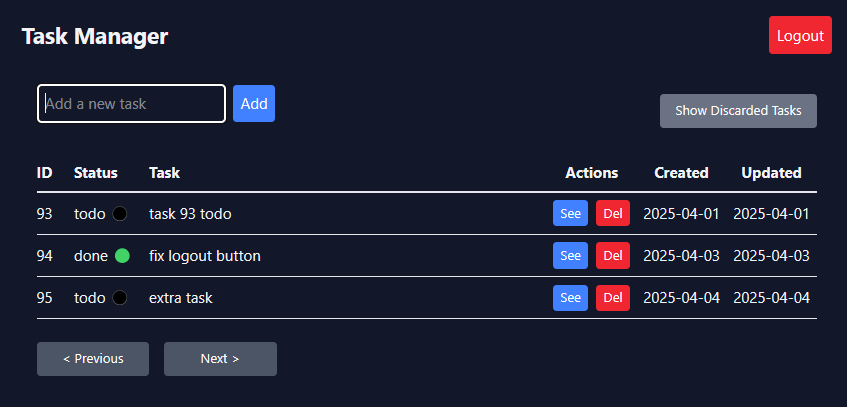
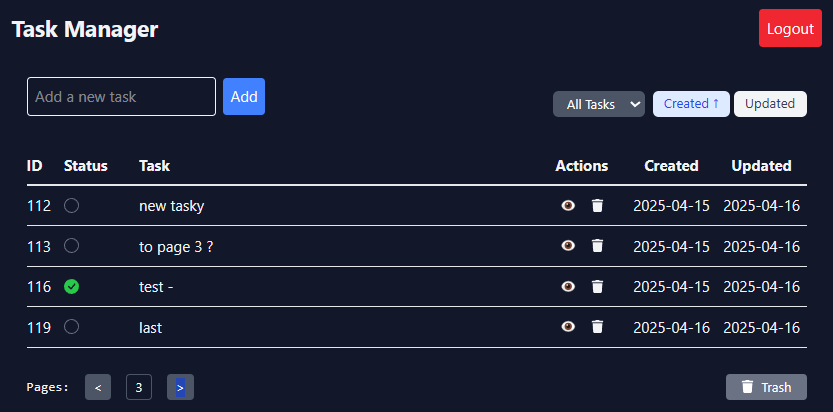
docs: update README

diff --git a/README.md b/README.md
@@ -14,8 +14,11 @@ Users will be able to:
 - [x] Delete tasks.
 - [x] Edit Existing tasks.
 - [x] Add and edit a task description field
-- [x] Soft delete tasks (Recycle bin)
-- [ ] Add user specific tasks
+- [x] Soft delete tasks (Trash bin)
+- [x] Recover tasks from trash bin
+- [x] Fake hard delete (erasing from Trash bin)
+- [x] Add user specific tasks
+- [x] Filter task by status, creation and/or update dates.
 
 ## **Features**
 - [x] Authentication login/logout (JWT).
@@ -24,9 +27,8 @@ Users will be able to:
 - [x] Uses ORM to manage database queries (Prisma).
 - [x] Error Handling.
 - [x] Input validations (Joi).
-- [x] minimize rendrings (hooks)
-- [x] modular code
-- [/] Optimize re-renderings
+- [x] Optimize re-renderings (useCallback & react.memo)
+- [x] unit test coverage near 80%
 
 # **Setup & Launch**
 
@@ -71,67 +73,6 @@ The frontend tipically runs at `http://localhost:5173`
 
 
 # **Miscellaneous (for development)**
-
-### **API url in deployment**
-Ensure the frontend points to the correct backend URL (e.g., `http://localhost:5000/my_endpoint`).
-
-
-### **Testing the Integration**
-1. Open the backend in the browser, directed to my endpoint (`http://localhost:5000/my_endpoint`) or query with CURL to verify the data is fetched from the database.
-2. Open the frontend in the browser (`http://localhost:5173`).
-3. Verify the frontend can fetch data from the backend.
-
-
-
-### **Querying API endpoints**
-While frontend is in development, the backend api endpoints can be tested with CURL:
-
-**Register a new user**
-```
-curl -X POST http://localhost:5000/api/auth/register \
--H "Content-Type: application/json" \
--d '{"username": "user07", "password": "pass07"}'
-```
-
-**Login an existen user**
-```
-curl -X POST http://localhost:5000/api/auth/login \
--d '{"username": "user07", "password": "pass07"}'
-```
-Save the `<jwt_token>` token returned in the `response.body.token`  
-
-
-**Get all tasks**
-```
-curl  http://localhost:5000/api/tasks 
-```
-
-
-**Get a tasks with id=10 (protected endpoint example)**
-```
-curl  http://localhost:5000/api/task/10 \
--H "Authorization: Bearer <jwt_token>" 
-```
-
-**Create a new task**
-```
-curl -X POST http://localhost:5000/api/task/new \
--H "Authorization: Bearer <jwt_token>" \
--d '{"title": "My New Task"}'
-```
-
-**Get a tasks with id=8**
-```
-$ curl -X DELETE http://localhost:5000/api/task/delete/8 \
--H "Authorization: Bearer <jwt_token>" 
-```
-
-**Edit tasks with id=15**
-```
-curl -X PUT http://localhost:5000/api/task/edit/15 \
--H "Authorization: Bearer <jwt_token>" \
--d '{"title": "Renamed Task", "completed": true}'
-```
 
 
 ## **Testing Setup**
